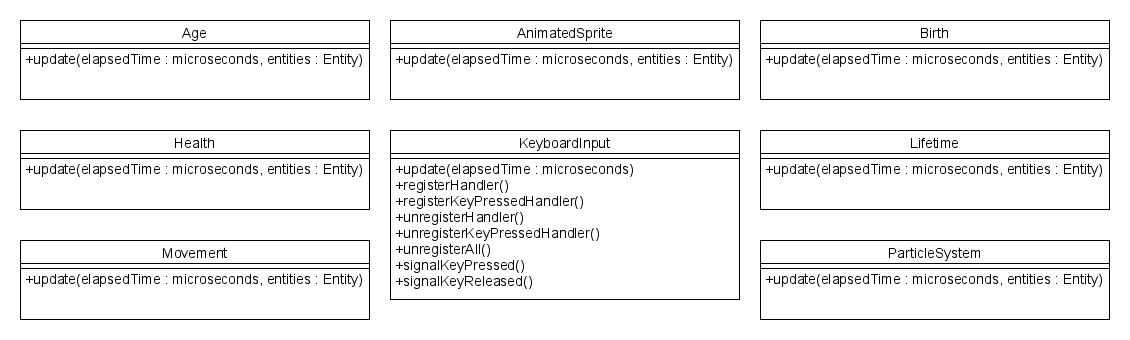
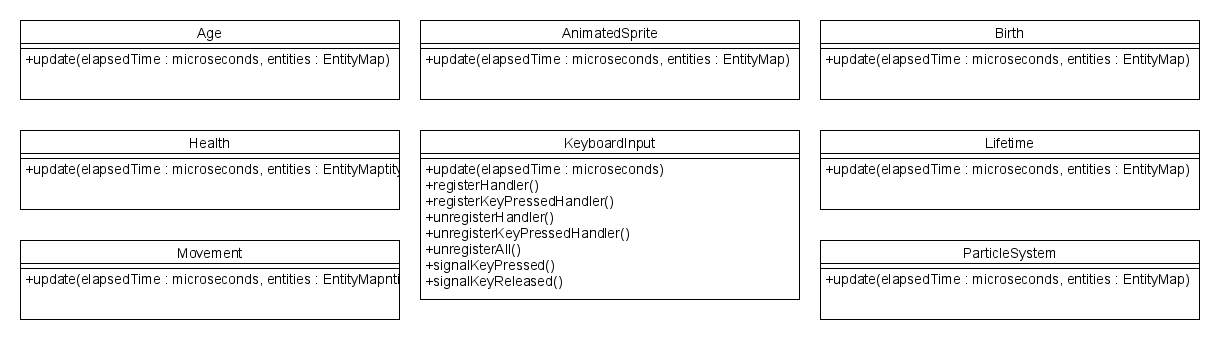
Bunch of work on documenting how systems work.

diff --git a/docs/Systems.md b/docs/Systems.md
@@ -1,5 +1,103 @@
 # Systems
 
+For this code, systems are a way to organize the game play code into cohesive units.  There are systems in age the viruses, update the health of viruses, move entities, update the state of animated sprites, handle particles, process input, and others.
+
 The following diagram provides an overview of the systems in this code.
 
 ![Systems Diagram](https://github.com/ProfPorkins/Coronavirus-NanoForce/blob/trunk/docs/images/Systems.png)
+
+## Update
+
+All systems have an `update` method that is invoked during the update stage of the game loop.  The `update` method accepts the elapsed time, along with the list of active entities; the particle and keyboard systems doesn't accept a list of entities.  During the update, the system iterates over the list of entities and acts on the entities as appropriate.  The following code shows the `update` method from the `Age` system...
+
+    void Age::update(const std::chrono::microseconds elapsedTime, std::unordered_map<entities::Entity::IdType, std::shared_ptr<entities::Virus>>& entities)
+    {
+        for (auto&& [id, entity] : entities)
+        {
+            auto age = entity->getComponent<components::Age>();
+            auto size = entity->getComponent<components::Size>();
+
+            age->update(elapsedTime);
+
+            auto sizeUpdate = math::lerp(age->get(), std::chrono::microseconds(0), age->getMaturity(), age->getMinSize(), age->getMaxSize());
+            sizeUpdate = std::min(age->getMaxSize(), sizeUpdate); // Cap the max size
+            size->set({ sizeUpdate, sizeUpdate });
+        }
+    }
+
+The code iterates through the list of entities, obtains pointers to the `Age` and `Size` components and modifies their state based on the elapsed time.  This is typical of the other systems.
+
+Consider the following code segment from the `GameModel::update` method...
+
+    void GameModel::update(const std::chrono::microseconds elapsedTime)
+    {
+        m_sysKeyboard.update(elapsedTime);
+        m_sysParticle.update(elapsedTime);
+
+        m_updatePlayer(elapsedTime);
+
+        m_sysLifetime.update(elapsedTime, m_bullets);
+        m_sysLifetime.update(elapsedTime, m_bombs);
+        m_sysLifetime.update(elapsedTime, m_powerups);
+
+        m_sysMovement.update(*m_level, elapsedTime, m_bullets);
+        m_sysMovement.update(*m_level, elapsedTime, m_bombs);
+        m_sysMovement.update(*m_level, elapsedTime, m_viruses);
+
+        // It isn't absolutely essential to the overall game, but the age should be updated
+        // before Birth because age is used in the gestation determination in the Birth system.
+        m_sysAge.update(elapsedTime, m_viruses);
+        m_sysBirth.update(elapsedTime, m_viruses);
+        m_sysHealth.update(elapsedTime, m_viruses);
+
+        m_sysAnimatedSprite.update(elapsedTime, m_powerups);
+
+        ...other code below this...
+    }
+
+Notice the game model tracks different types of entities and passes the appropriate entity list to the system.  For example, both the lifetime and movement systems are called three times, each time with a different list of entities.
+
+I considered having a `notifyEntity` or `registerEntity` method on the systems, where they could interrogate the type and/or components of the entity to decide if it relevant and keep their own reference to it.  Then when `update` is called, no entity list needs to be passed in, and the game model doesn't need to track different entity types, reducing its complexity.  In my [Game Techniques](https://github.com/ProfPorkins/GameTech) repository, for the C++ multiplayer examples used that approach and it works well.  For this game, I wasn't trying to use a pure ECS model.  The code complexity of the game model isn't too bad through the use of the systems as they are.  A more complex game (e.g., game model) could benefit from the approach taken with the multiplayer examples.  With that said, as I note on the front page of this documentation, I am considering refactoring this code to be much closer to an ECS architecture; for _fun_ of course.
+
+## Animated Sprites
+
+It is worth noting there is an `AnimatedSprite` component, an `AnimatedSprite` system, and an `AnimatedSprite` renderer.  There isn't an `AnimatedSprite` entity, but all powerups contain an `AnimatedSprite` component.  I personally like this separating of the state, logic, and rendering.  I'm never going to do it, but if the rendering system were changed, to use something other than the SFML, then only the `AnimatedSprite` renderer needs to be changed, the component and system ("in theory") don't need to be modified.
+
+Some systems update the state of the game play, but not all, like the `AnimatedSprite` system.  During its update, it obtains the `AnimatedSprite` component, works through how much time has elapsed and modifies the component state.  The state of this component is later used by the `AnimatedSprite` renderer to render its current state.
+
+## Input Processing
+
+The only input accepted during game play is from the keyboard and it is, unsurprisingly, the `KeyboardInput` system that handles that.  Keyboard input is something of a subscribe and publisher model.  Several methods to register or unregister from input events are exposed.  During the main game loop, all keyboard events are signaled to the game model, which and then passed to the keyboard system and queued for processing.  When the `update` method is called, all queued input events are processed.
+
+The design of the keyboard input is to make it like the other game systems.  It is contained by the game model, used by the game model, and told when to update by the game model.  The following shows how keyboard inputs are registered in the `GameModel::startPlayer` method...
+
+    auto player = m_player;
+    m_sysKeyboard.registerKeyPressedHandler(Configuration::get<std::string>(config::KEYBOARD_UP), [player]() { player->startThrust(); });
+    m_sysKeyboard.registerKeyReleasedHandler(Configuration::get<std::string>(config::KEYBOARD_UP), [player]() { player->endThrust(); });
+    m_sysKeyboard.registerHandler(Configuration::get<std::string>(config::KEYBOARD_LEFT), true, std::chrono::microseconds(0), [player](std::chrono::microseconds elapsedTime) { player->rotateLeft(elapsedTime); });
+    m_sysKeyboard.registerHandler(Configuration::get<std::string>(config::KEYBOARD_RIGHT), true, std::chrono::microseconds(0), [player](std::chrono::microseconds elapsedTime) { player->rotateRight(elapsedTime); });
+    //
+    // Primary weapon fire
+    m_sysKeyboard.registerHandler(
+        Configuration::get<std::string>(config::KEYBOARD_PRIMARY_FIRE), true, std::chrono::microseconds(0),
+        [this, player]([[maybe_unused]] std::chrono::microseconds elapsedTime) {
+            player->getPrimaryWeapon()->fire(
+                [this](std::shared_ptr<entities::Entity>& bullet) { this->emitBullet(bullet); },
+                [this](std::shared_ptr<entities::Entity>& bomb) { this->emitBomb(bomb); });
+        });
+
+    //
+    // Secondary weapon fire
+    m_sysKeyboard.registerHandler(
+        Configuration::get<std::string>(config::KEYBOARD_SECONDARY_FIRE), true, std::chrono::microseconds(0),
+        [this, player]([[maybe_unused]] std::chrono::microseconds elapsedTime) {
+            player->getSecondaryWeapon()->fire(
+                [this](std::shared_ptr<entities::Entity>& bullet) { this->emitBullet(bullet); },
+                [this](std::shared_ptr<entities::Entity>& bomb) { this->emitBomb(bomb); });
+        });
+
+This design fully separates the behavior of the player controlled ship from the type of input.  In theory, an "AI" player could be developed and it could interface with the player controlled ship using the same methods, it doesn't have to be controlled by keyboard input.
+
+Another design could have it be completely external to the game model and made available as a singleton, similar to the other code singletons.  In this way, keyboard input could be given to it directly from the game loop and the `update` method could also be called in the game loop, being handled independently from the game model.  I'm not documenting it, but the user interface code could then use this system, rather than handling input the way it currently does.  Possibly, such an approach could reduce overall code complexity.  There is a lot to like about this approach and even as I write about it, I'm considering it very seriously; something else to add to the future revisions list.
+
+At one time I started work towards integrating controller input, but never went very far with it, could be something to add to the future revisions list.
